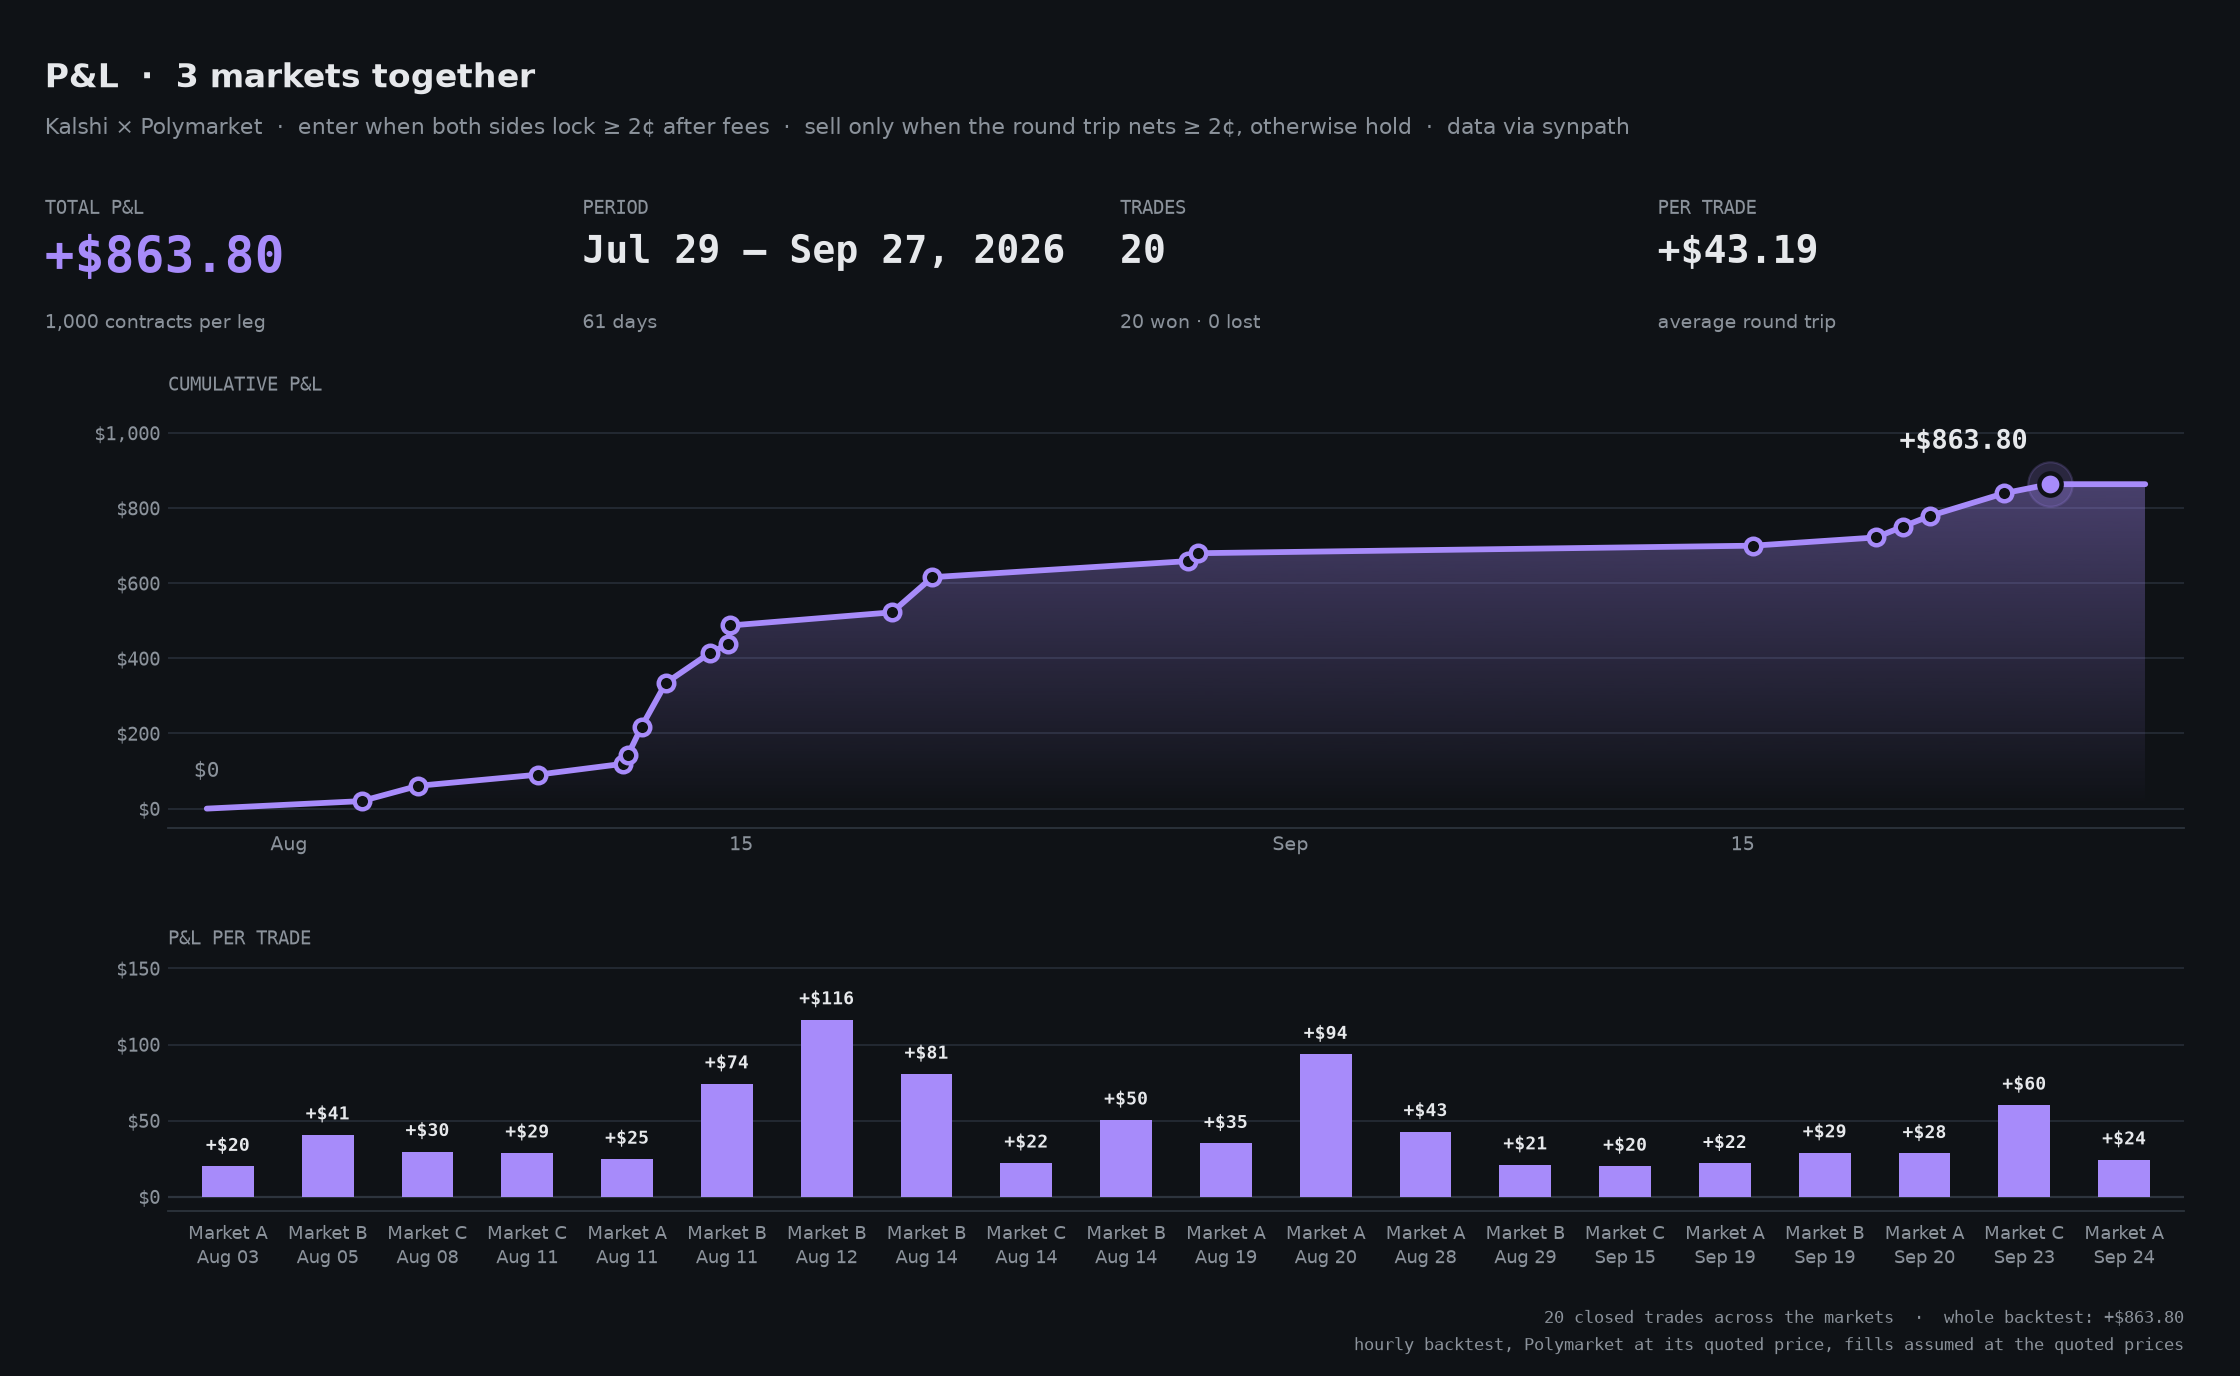
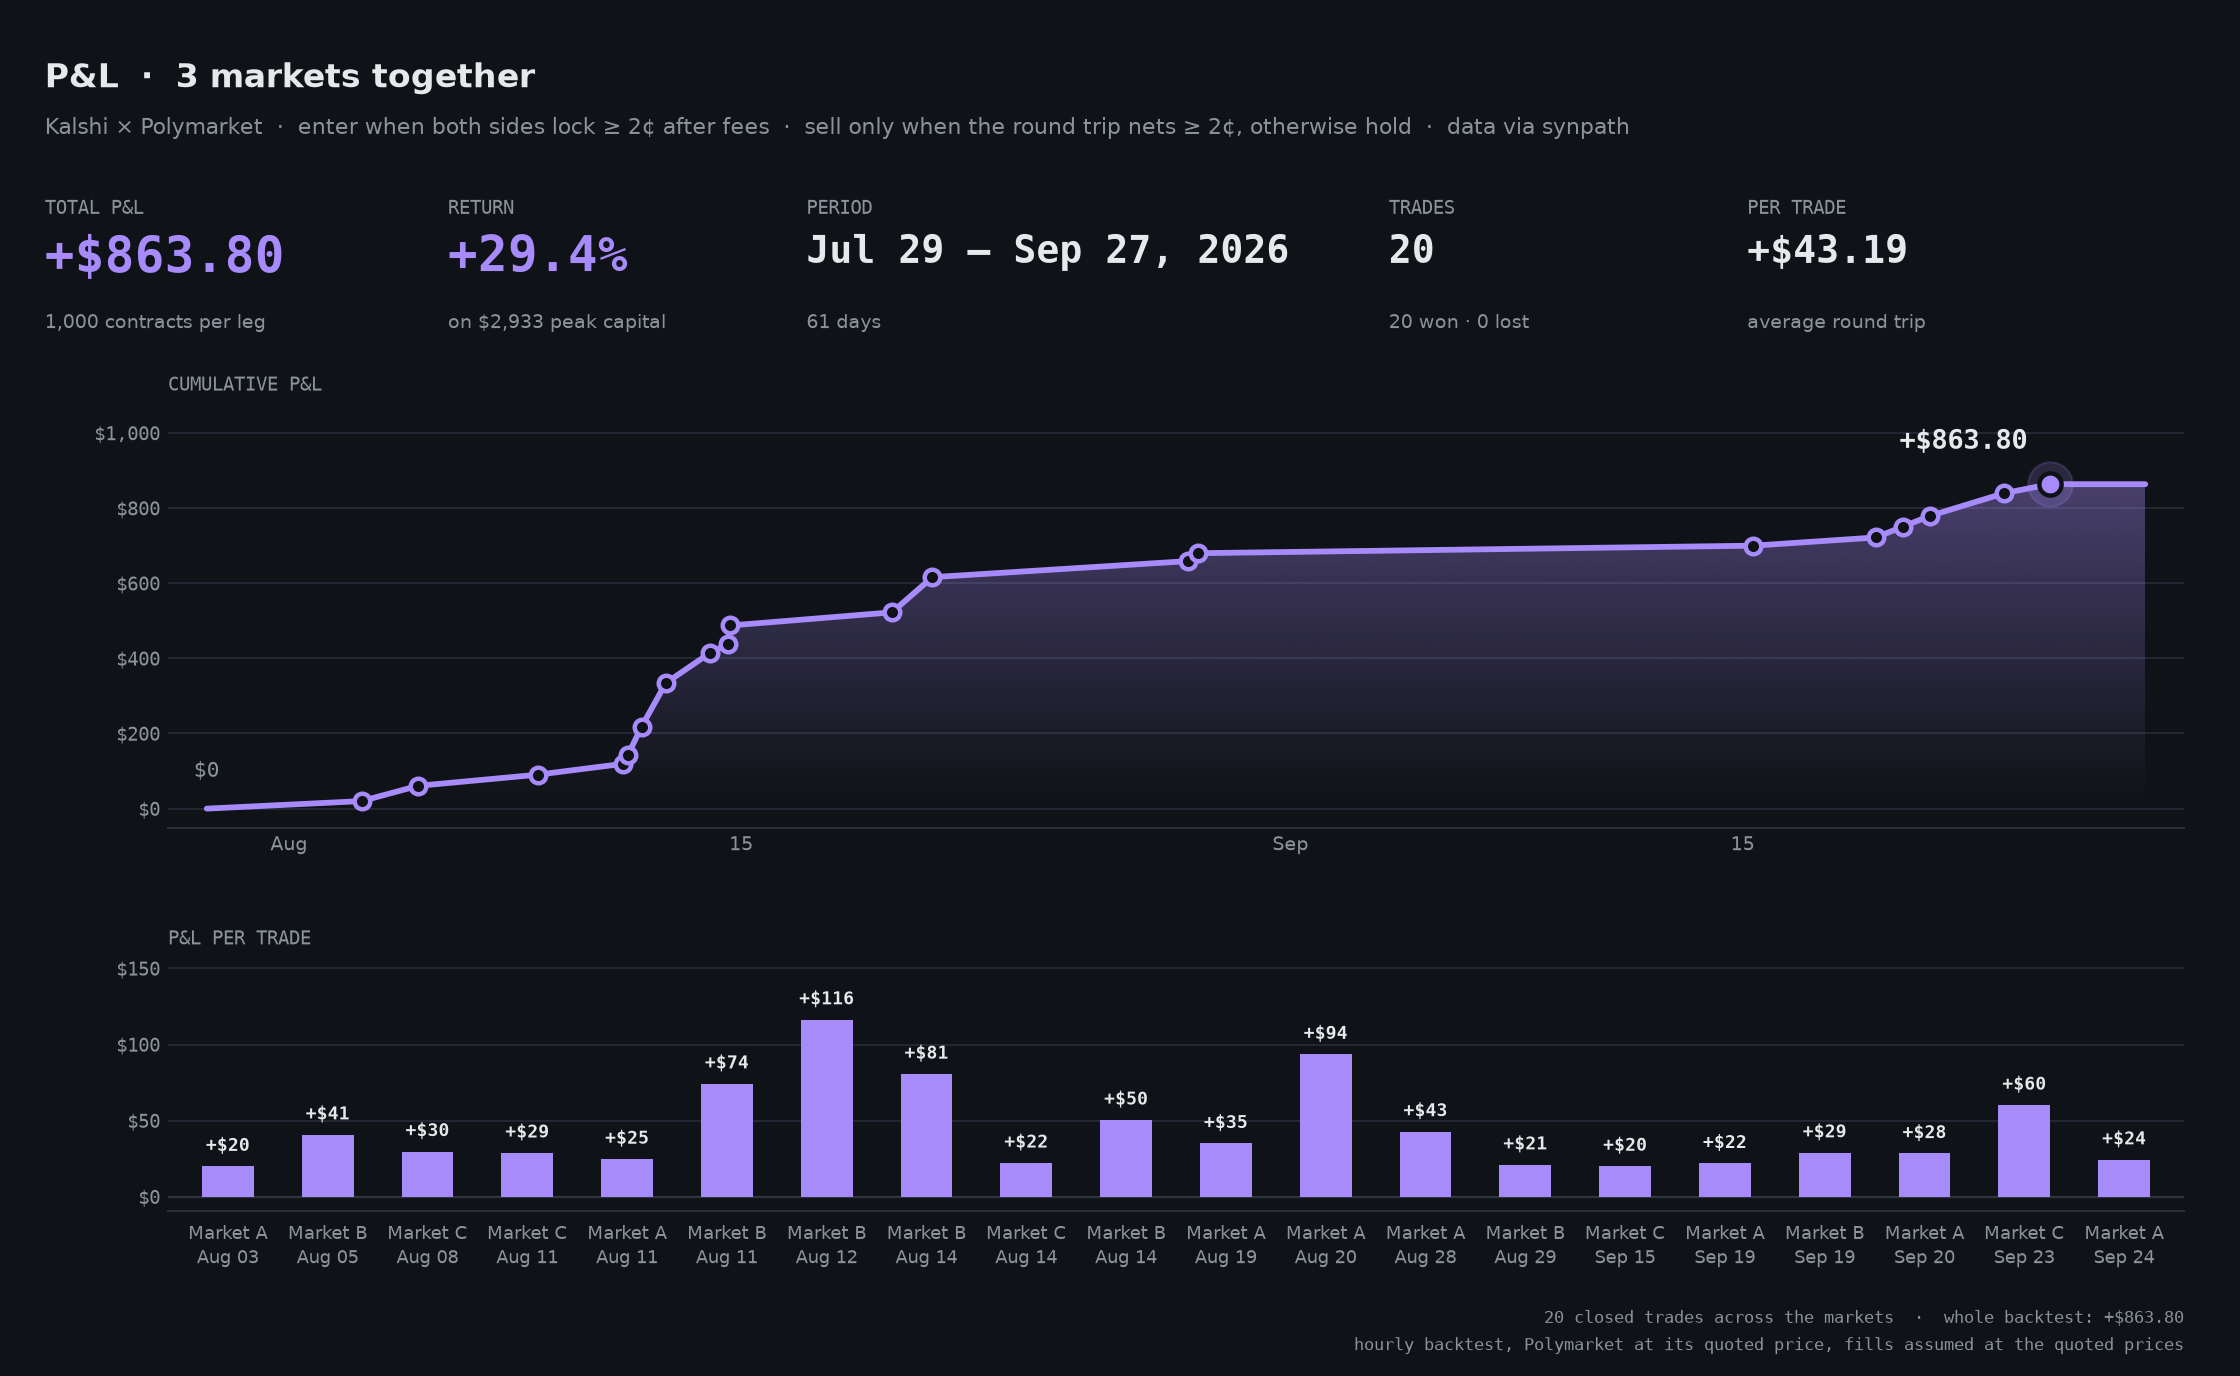
P&L charts: return on peak capital next to total P&L

diff --git a/backtest/charts.py b/backtest/charts.py
@@ -206,6 +206,20 @@ def gradient_fill(ax, x, y, color: str) -> None:
     im.set_clip_path(poly)
 
 
+def peak_capital(trades: list[dict], contracts: float) -> float:
+    """The most money the trades had tied up at once: each position costs what both legs and
+    their entry fees cost, from its entry until its exit."""
+    events = []
+    for t in trades:
+        outlay = (t["cost"] + t["fees"]) * contracts
+        events += [(t["entry_ms"], outlay), (t["exit_ms"] if t["exit_ms"] is not None else float("inf"), -outlay)]
+    peak = level = 0.0
+    for _, change in sorted(events, key=lambda e: (e[0], e[1])):     # a same-hour exit frees money first
+        level += change
+        peak = max(peak, level)
+    return peak
+
+
 def pnl_chart(title: str, trades: list[dict], contracts: float, start: int, end: int, path: Path, *,
               strategy: str, footnote: str, numbered: bool) -> None:
     trades = sorted(trades, key=lambda t: t["exit_ms"])
@@ -220,14 +234,19 @@ def pnl_chart(title: str, trades: list[dict], contracts: float, start: int, end:
     ax, bx = fig.add_subplot(grid[0]), fig.add_subplot(grid[1])
     fig.text(0.02, 0.955, title, fontsize=15, fontweight="bold", color=TEXT, va="top")
     fig.text(0.02, 0.915, f"Kalshi × Polymarket  ·  {strategy}  ·  data via synpath", fontsize=10, color=MUTED, va="top")
+    capital = peak_capital(trades, contracts)
+    ret = total / capital if capital else None
     stats = [("TOTAL P&L", money(total), GAIN if total >= 0 else LOSS, f"{contracts:,.0f} contracts per leg"),
+             ("RETURN", "—" if ret is None else f"{'+' if ret >= 0 else '−'}{abs(ret) * 100:.1f}%",
+              GAIN if (ret or 0) >= 0 else LOSS, f"on ${capital:,.0f} peak capital"),
              ("PERIOD", period_text(start, end), TEXT, f"{days} days"),
              ("TRADES", f"{len(trades)}", TEXT, f"{wins} won · {len(trades) - wins} lost"),
              ("PER TRADE", money(total / len(trades)) if trades else "—", TEXT, "average round trip")]
+    xs_stats = (0.02, 0.2, 0.36, 0.62, 0.78)
     for i, (k, v, color, note) in enumerate(stats):
-        x = 0.02 + i * 0.24
+        x = xs_stats[i]
         fig.text(x, 0.855, k, fontsize=8.5, color=MUTED, fontfamily=MONO, va="top")
-        fig.text(x, 0.83, v, fontsize=22 if i == 0 else 17, fontweight="bold", color=color, fontfamily=MONO, va="top")
+        fig.text(x, 0.83, v, fontsize=22 if i < 2 else 17, fontweight="bold", color=color, fontfamily=MONO, va="top")
         fig.text(x, 0.772, note, fontsize=8.5, color=MUTED, va="top")
 
     # Running P&L: $0 when the period starts, a point at every exit, flat to the period's end.
